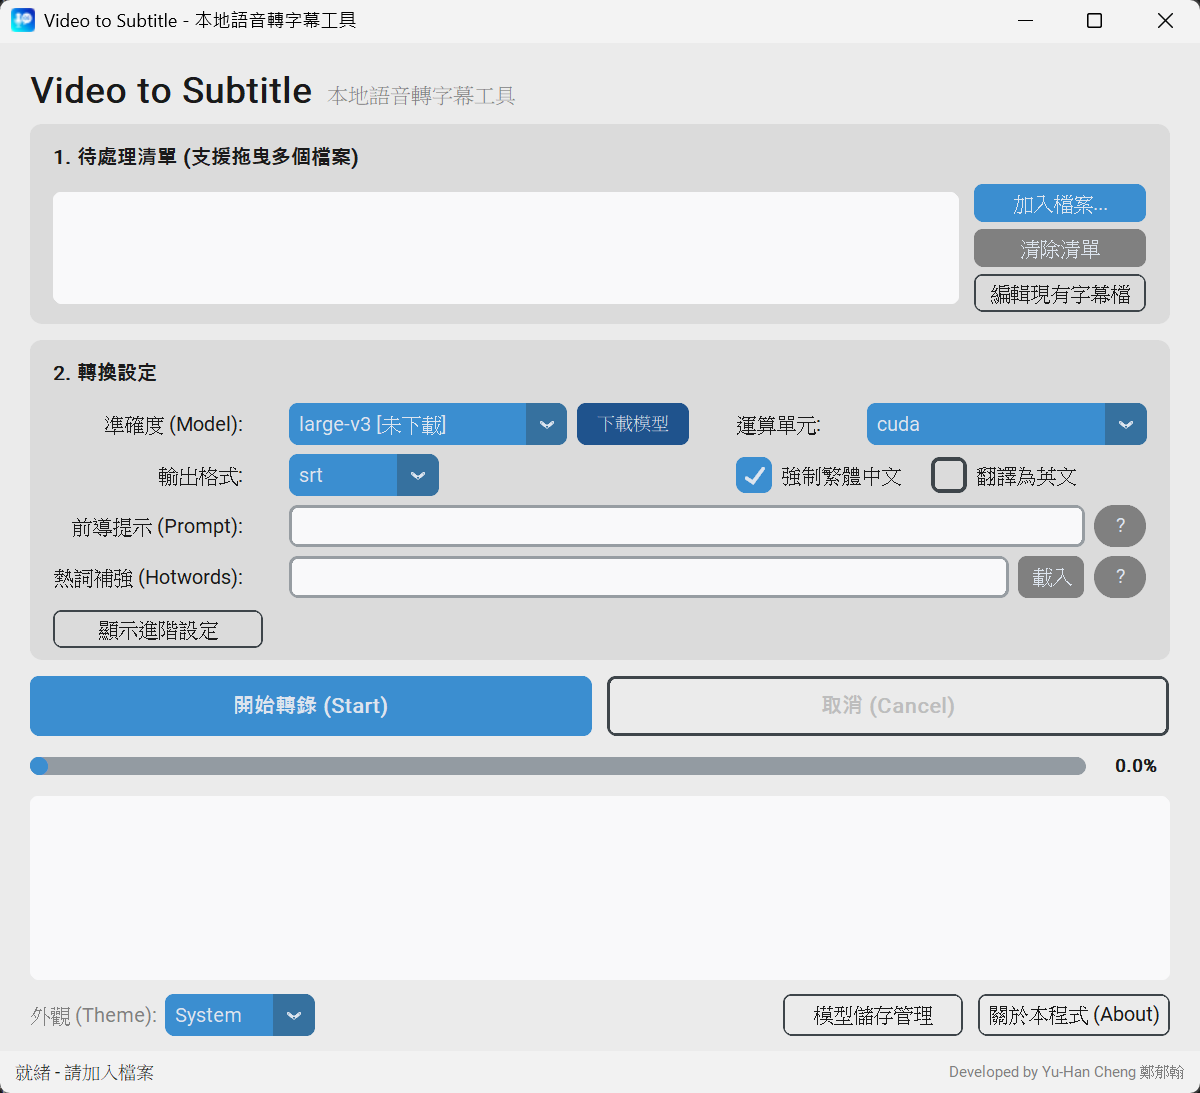
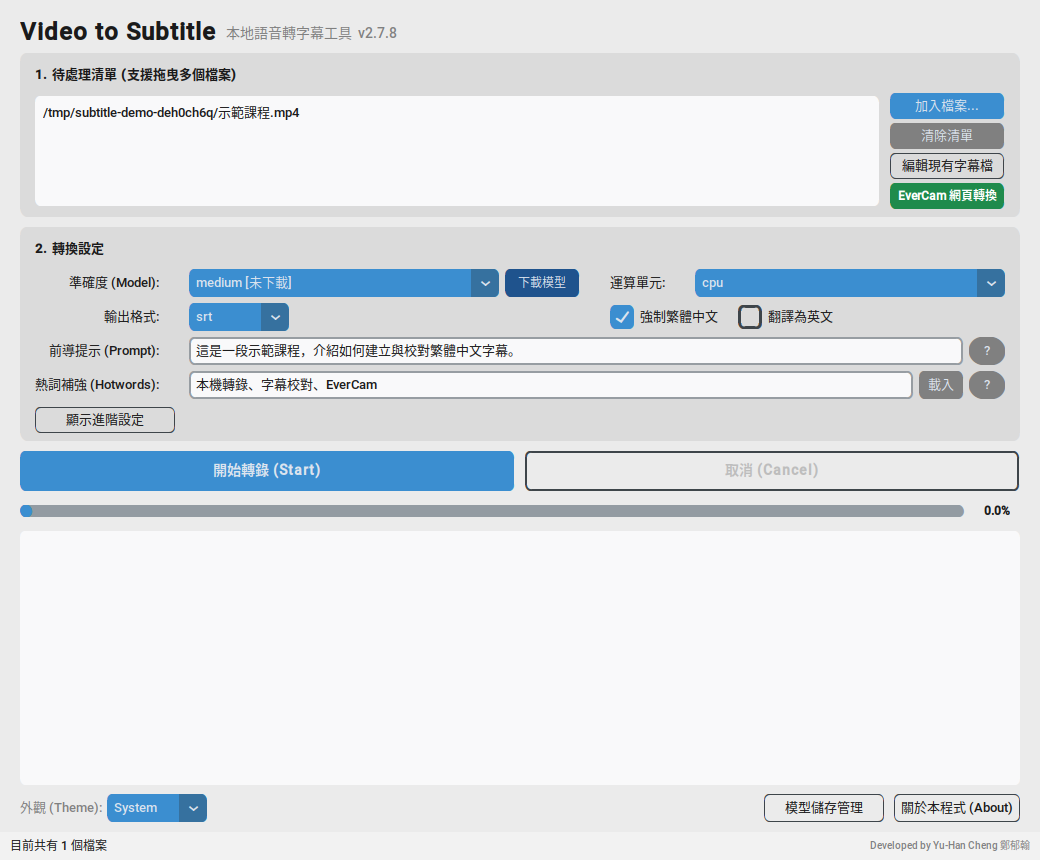
Refresh README and website with verified v2.7.8 screenshots

diff --git a/README.md b/README.md
@@ -14,6 +14,8 @@
 
 ![主操作介面](screenshot_main.png)
 
+本文三張介面截圖均擷取自 **v2.7.8**，使用 Linux 雲端虛擬顯示環境與示範影音／字幕，並非真實轉錄成果。Windows／macOS 的字型與視窗外觀可能略有差異；下載的正式安裝檔仍為 Windows 與 macOS 版本。
+
 ## 🚀 v2.7.8 更新說明
 
 - 加強字幕編輯器與 EverCam 的檔案寫入安全，防止惡意符號連結將輸出導向其他檔案。
